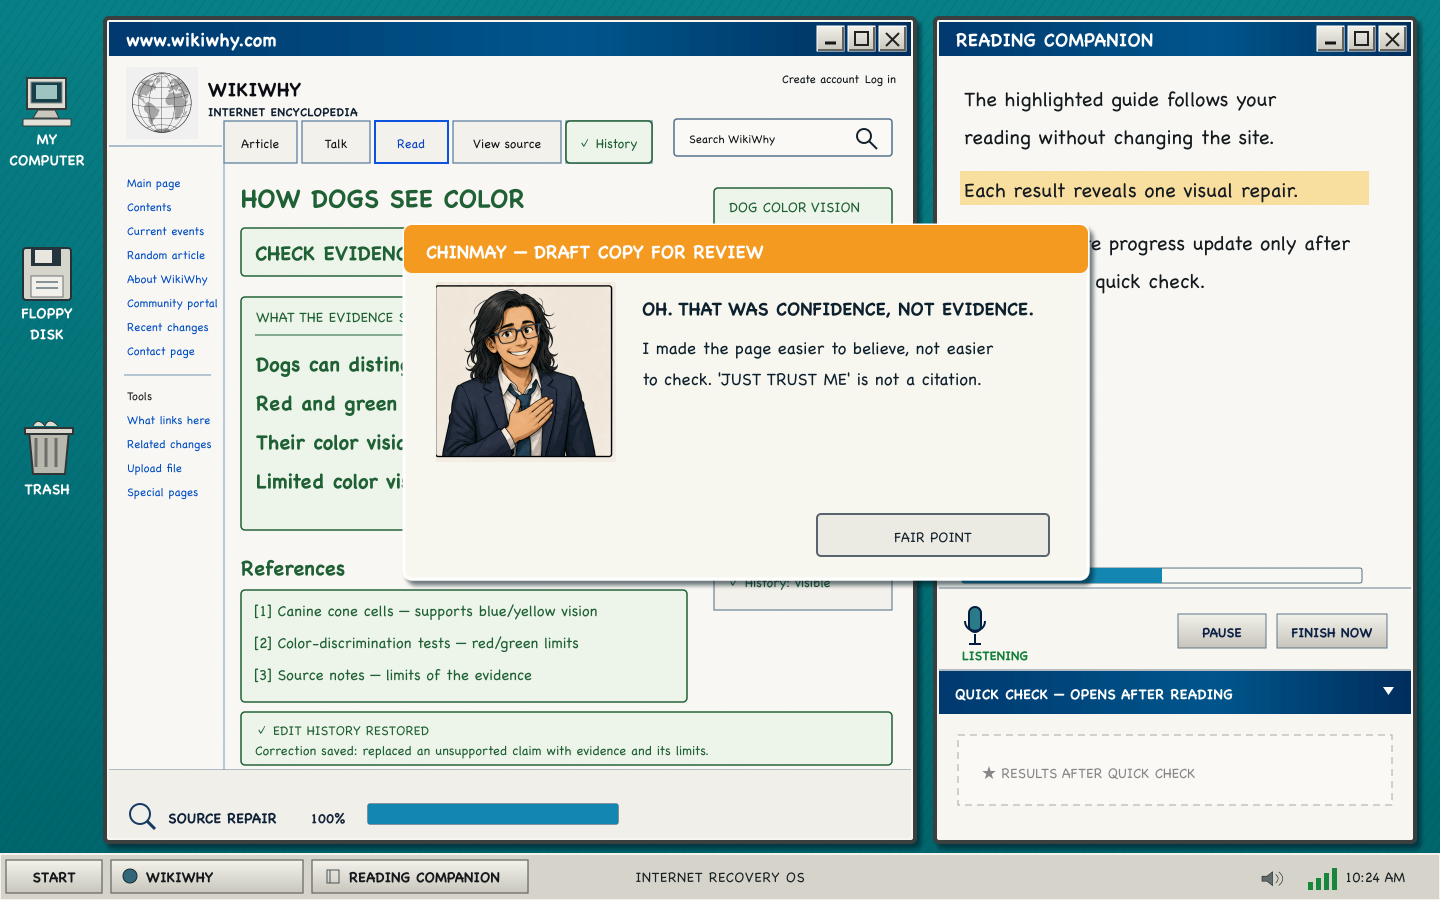
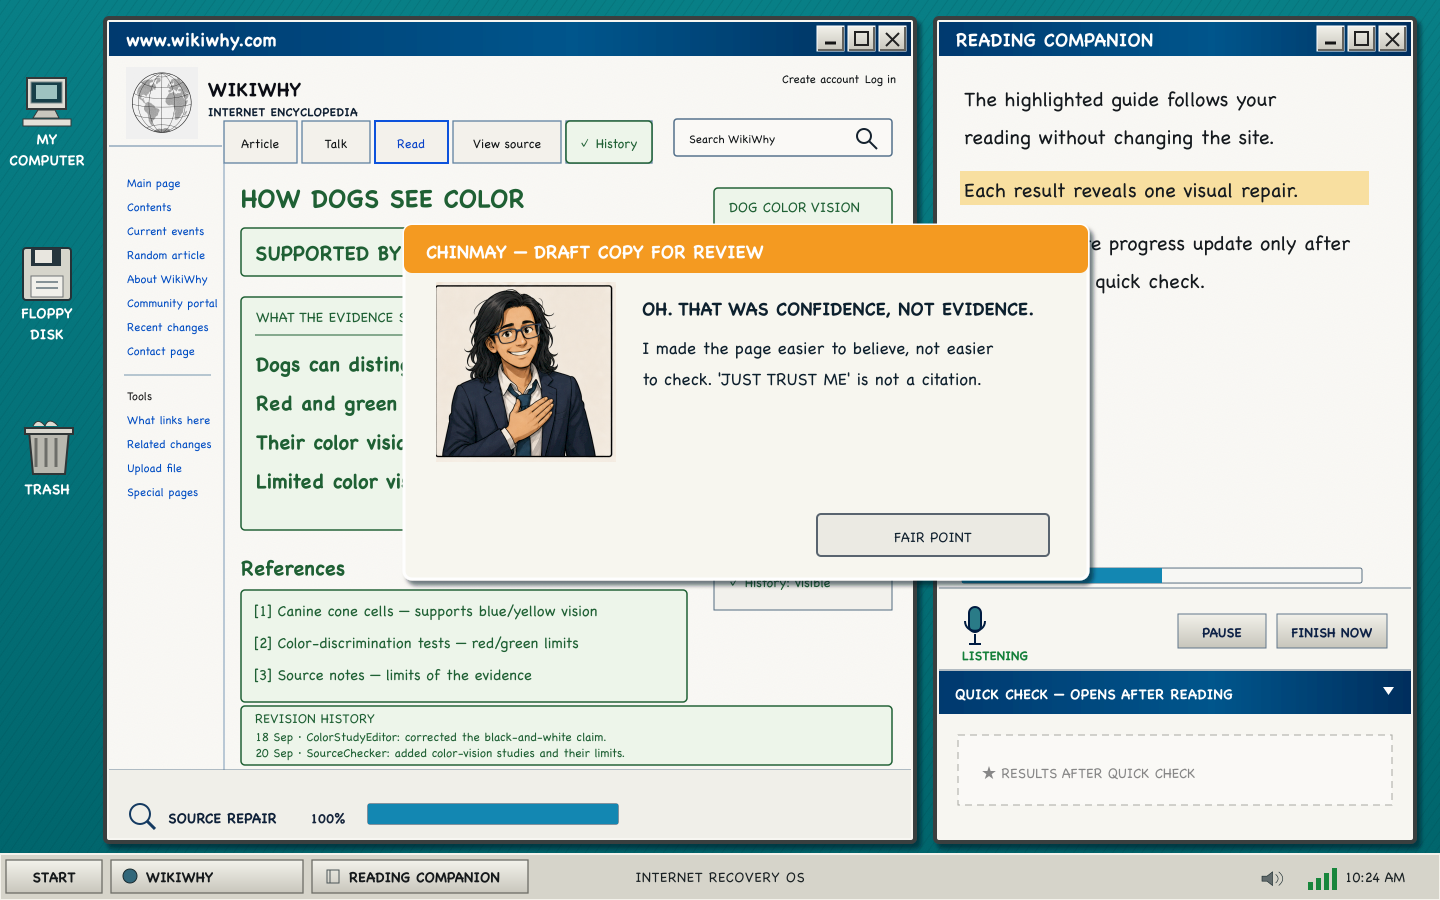
Replace WikiWhy teaching labels with article status and revision history

Changed region(s): [[0.1562, 0.7778, 0.625, 0.84], [0.1875, 0.2489, 0.2812, 0.3111]]

diff --git a/onboarding.js b/onboarding.js
@@ -13,7 +13,7 @@ const STEPS=[
  {title:"Finish the passage",text:"Read all the way to the end. The game should finish automatically after you stop speaking, or you can click Finish now.",screen:'finish',target:'#finishReading',side:'left'},
  {title:"See how your reading went",text:"Here’s an example result. Coverage describes how many of the words the game recognized. Pace estimates reading speed. These are meant to be helpful feedback, not a pass-or-fail grade.",note:"Retrying is always optional.",screen:'result',target:'.score-grid',side:'left'},
  {title:"Check what you read",text:"Choose the answer supported by the passage. If it isn’t right, you can try again.",screen:'result',target:'.quick-check',side:'left'},
- {title:"Your reading starts the repair",text:"Remember that banner from before? “USER FACTS ARE ALWAYS RIGHT” has now become “CHECK EVIDENCE, NOT CONFIDENCE.” The banner is now green. Each passage and Quick Check repairs one part of the website.",note:"The red headline, explanation, and missing sources still need work. Repaired parts stay green.",screen:'answered',rect:[238,225,452,54],side:'right'},
+ {title:"Your reading starts the repair",text:"Remember that banner from before? “USER FACTS ARE ALWAYS RIGHT” has now become “SUPPORTED BY RESEARCH.” The banner is now green. Each passage and Quick Check repairs one part of the website.",note:"The red headline, explanation, and missing sources still need work. Repaired parts stay green.",screen:'answered',rect:[238,225,452,54],side:'right'},
  {title:"A little help with tricky words",text:"Words to Know picks out vocabulary from the passage. Hear aloud plays the word, its meaning, and how it was used in a sentence. You can use this to help learn tricky vocabulary after each reading.",screen:'answered',target:'#wordHelp',side:'left'},
  {title:"Keep reading. Keep repairing",text:"Next passage continues the website’s recovery. Each passage and Quick Check repairs another part of the corrupted website. At the end, you’ll teach AUTO what went wrong.",screen:'answered',target:'#nextPassage',side:'left'},
  {title:"Need a reminder?",text:"You can replay the tutorial anytime. Open the Start menu and choose Tutorial.",screen:'launcher',target:'#replayTutorial',side:'right',menu:true,button:'Start game'}
@@ -64,7 +64,7 @@ function renderMission(screen){
  const result=['result','answered'].includes(screen);
  for(const id of ['readerView','resultView','skipView','reflectionView','receiptView'])$(id).hidden=id!==(result?'resultView':'readerView');
  $('siteFrame').src=screen==='answered'?fixture.frames.after:fixture.frames.before;
- $('siteFrame').alt=screen==='answered'?'WikiWhy after one repair. The banner now says CHECK EVIDENCE, NOT CONFIDENCE.':'Corrupted WikiWhy. The red banner says USER FACTS ARE ALWAYS RIGHT.';
+ $('siteFrame').alt=screen==='answered'?'WikiWhy after one repair. The banner now says SUPPORTED BY RESEARCH.':'Corrupted WikiWhy. The red banner says USER FACTS ARE ALWAYS RIGHT.';
  if(result)renderResult(screen==='answered');else renderPassage(screen);
 }
 function setInert(on){$('launcherView').inert=on;$('missionView').inert=on;}
@@ -96,7 +96,7 @@ function renderTutorial(){
  if(step.menu){$('startMenu').hidden=false;$('startMenu').inert=true;document.querySelector('#launcherView .start-button').setAttribute('aria-expanded','true');}
  setInert(true);$('gameIntroduction').hidden=true;$('tourLayer').hidden=false;$('skipSequence').hidden=false;$('skipSequence').textContent='Skip tutorial';
  $('tourTitle').textContent=step.title;$('tourText').textContent=step.text;$('tourNote').textContent=step.note||'';$('tourNote').hidden=!step.note;$('tourCount').textContent=`${index+1} OF ${STEPS.length}`;$('tourBack').disabled=index===0;$('tourNext').textContent=step.button||'Continue';
- const context=step.rect ? (index===2?'Banner: USER FACTS ARE ALWAYS RIGHT.':step.screen==='answered'?'Banner: CHECK EVIDENCE, NOT CONFIDENCE.':'WikiWhy shows a claim about dogs seeing only black and white, missing sources, and hidden history.') : step.target==='#passage' ? fixture.passage.lines.slice(0,2).join(' ') : document.querySelector(step.target).textContent;
+ const context=step.rect ? (index===2?'Banner: USER FACTS ARE ALWAYS RIGHT.':step.screen==='answered'?'Banner: SUPPORTED BY RESEARCH.':'WikiWhy shows a claim about dogs seeing only black and white, missing sources, and hidden history.') : step.target==='#passage' ? fixture.passage.lines.slice(0,2).join(' ') : document.querySelector(step.target).textContent;
  $('tourContext').textContent=context;positionTour();$('tourNext').focus();
 }
 function showLauncher(){if(embedded){window.parent.postMessage({type:'recovery-onboarding-complete'},location.origin);return;}mode='launcher';closeMenu();$('gameIntroduction').hidden=true;$('tourLayer').hidden=true;$('skipSequence').hidden=true;setInert(false);renderLauncher();$('site-wikiwhy').focus();}

diff --git a/apps/internet-recovery/endgame-playtest-content.js b/apps/internet-recovery/endgame-playtest-content.js
@@ -150,8 +150,8 @@ export const ENDGAME_SITE_FIXTURES = Object.freeze(ENDGAME_SITE_ORDER.map((id, i
     id,
     name: mission.name,
     markImage: site.markImage,
-    autoFrame: `/walkthroughs/endgame/site-crops/${id}-auto-site-v1.png?v=${id === "wikiwhy" ? "20260920-wikiwhy-repairs-v5" : "20260825-endgame-v2"}`,
-    recoveredFrame: `/walkthroughs/endgame/site-crops/${id}-recovered-site-v1.png?v=${id === "wikiwhy" ? "20260920-wikiwhy-repairs-v5" : "20260825-endgame-v2"}`,
+    autoFrame: `/walkthroughs/endgame/site-crops/${id}-auto-site-v1.png?v=${id === "wikiwhy" ? "20260920-wikiwhy-repairs-v6" : "20260825-endgame-v2"}`,
+    recoveredFrame: `/walkthroughs/endgame/site-crops/${id}-recovered-site-v1.png?v=${id === "wikiwhy" ? "20260920-wikiwhy-repairs-v6" : "20260825-endgame-v2"}`,
     superFrame: mission.superFrame,
     securedFrame: mission.securedFrame,
     savedLesson: mission.autoLesson,

diff --git a/apps/internet-recovery/playable-walkthroughs.js b/apps/internet-recovery/playable-walkthroughs.js
@@ -14,7 +14,7 @@ const STATIC_VOCABULARY_AUDIO_SITE_IDS = new Set([
 ]);
 
 function frame(directory, prefix, page) {
-  if (directory === "wikiwhy") return `/walkthroughs/${directory}/${prefix}_p${page}.png?v=20260920-wikiwhy-repairs-v5`;
+  if (directory === "wikiwhy") return `/walkthroughs/${directory}/${prefix}_p${page}.png?v=20260920-wikiwhy-repairs-v6`;
   return `/walkthroughs/${directory}/${prefix}_p${page}.png?v=${WALKTHROUGH_ASSET_VERSION}`;
 }
 

diff --git a/docs/gameplay/WIKIWHY_VISUAL_REPAIRS_CURRENT.md b/docs/gameplay/WIKIWHY_VISUAL_REPAIRS_CURRENT.md
@@ -7,7 +7,7 @@ Initial contributor: DogVisionExpert99. Unsupported claims, caption, references,
 and hidden history are red. ARTICLE CHECK tracks evidence, wording, sources and
 history. No floating hatch marks, question marks or crossed-out fragments.
 
-Reading 1 restores the evidence rule; 2 the headline; 3 the explanation; 4 the
+Reading 1 restores the article’s research-backed status; 2 the headline; 3 the explanation; 4 the
 color-vision illustration; 5 the references; 6 the history record. Sidebar rows
 change only when their corresponding repair occurs. Color labels are stacked
 to prevent overflow. The illustration continues using the existing approved art.
@@ -32,3 +32,8 @@ Regenerate all runtime artwork with `node scripts/generate-wikiwhy-complete-sequ
 View source has a red × in corrupted states. It returns to the normal tab with
 the sources repair (reading 5 or final lock 1). The tutorial points to the same
 initial and first-repair frames and explains the permanent red-to-green change.
+
+Article copy shows status rather than teaching instructions: SUPPORTED BY RESEARCH,
+Evidence: research, Wording: careful, Sources: 3 linked, and History: visible.
+Revision history shows two dated edits by fictional encyclopedia contributors,
+describing the correction and source additions. Tutorial narration matches it.

diff --git a/docs/gameplay/ONBOARDING_COPY_CURRENT.md b/docs/gameplay/ONBOARDING_COPY_CURRENT.md
@@ -117,7 +117,7 @@ Button: Continue
 
 ## Tutorial 10: Your reading starts the repair
 
-Remember that banner from before? “USER FACTS ARE ALWAYS RIGHT” has now become “CHECK EVIDENCE, NOT CONFIDENCE.” The banner is now green. Each passage and Quick Check repairs one part of the website.
+Remember that banner from before? “USER FACTS ARE ALWAYS RIGHT” has now become “SUPPORTED BY RESEARCH.” The banner is now green. Each passage and Quick Check repairs one part of the website.
 
 The red headline, explanation, and missing sources still need work. Repaired parts stay green.
 
